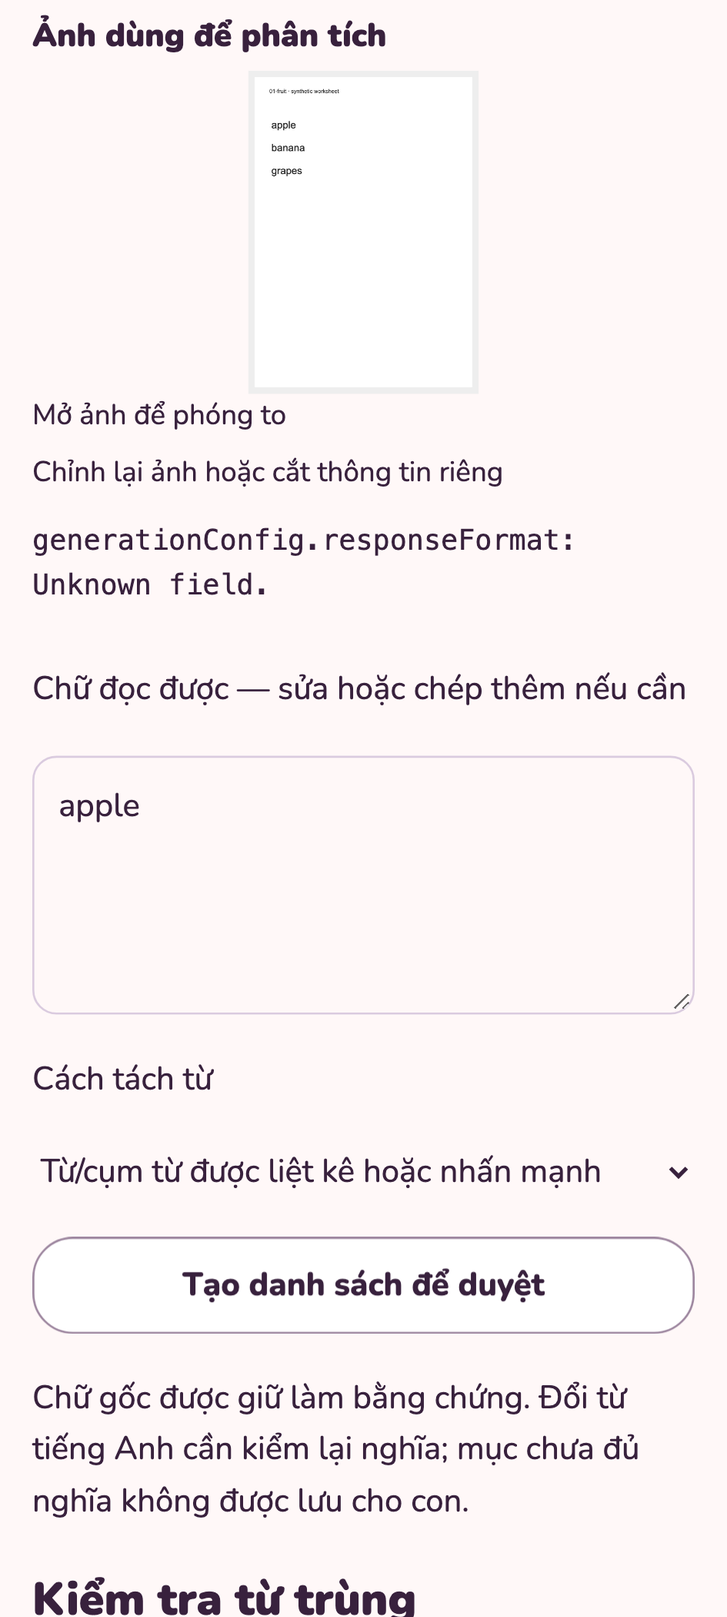
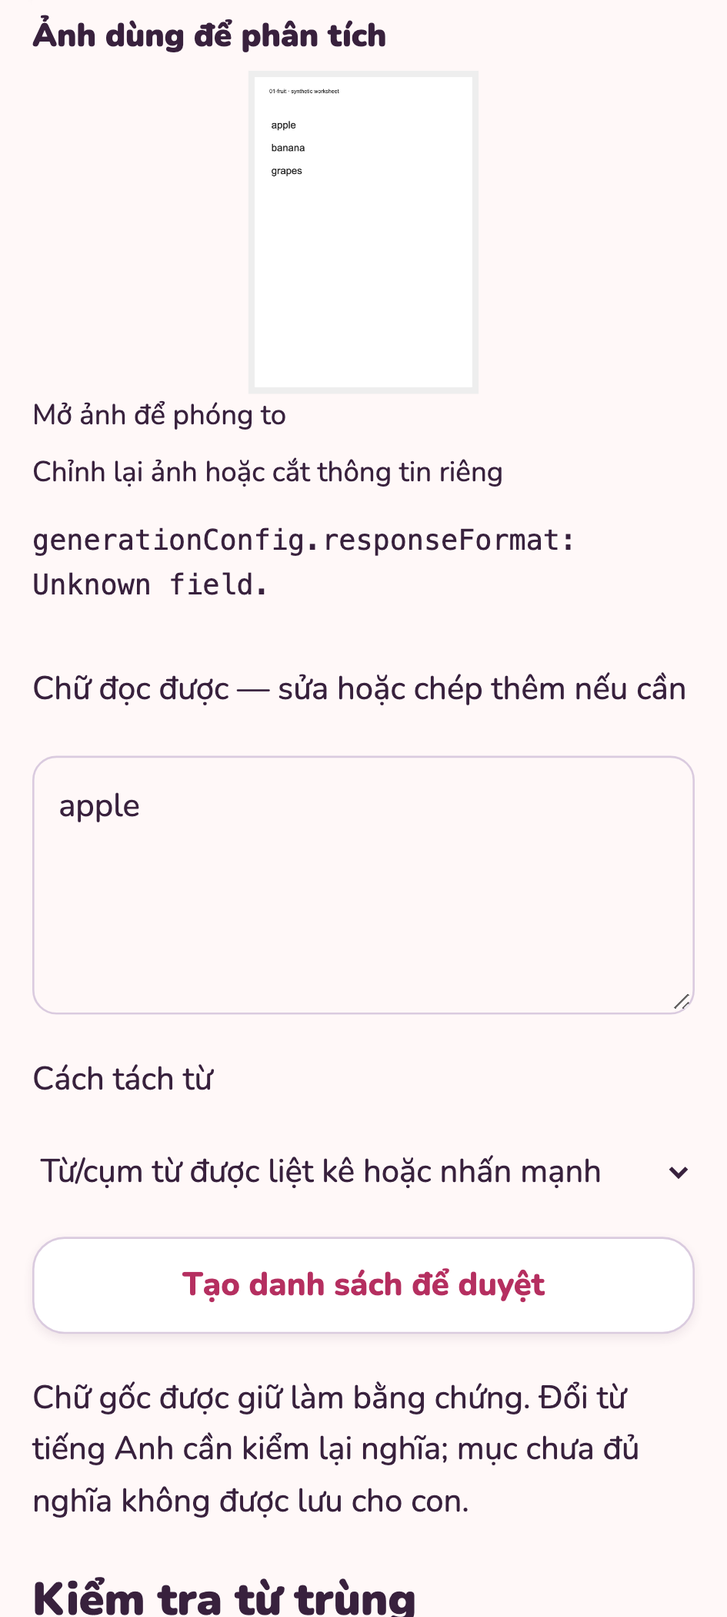
Wait for hydrated parent settings in browser checks

Changed region(s): [[0.2455, 0.7738, 0.7672, 0.8048], [0.9206, 0.8048, 0.9513, 0.8357], [0.0307, 0.7738, 0.0614, 0.8048]]

diff --git a/tests/e2e/parent-ai.spec.ts b/tests/e2e/parent-ai.spec.ts
@@ -2,14 +2,14 @@ import {test,expect,type Page} from '@playwright/test';
 import {readFile} from 'node:fs/promises';
 const key='AIza'+'test-parent-browser-canary-123456';
 const worksheet={text:'pear',warnings:[],words:[{literal:'pear',word:'pear',vi:'quả lê',en:'A sweet fruit.',pos:'noun',sense:'fruit',example:'I eat a pear.',exampleVi:'Con ăn một quả lê.'}]};
-async function advanced(page:Page){const detail=page.locator('#parent-ai .ai-advanced');if(!await detail.count())return;if(!await detail.evaluate(el=>el.hasAttribute('open')))await detail.locator('summary').click();}
+async function advanced(page:Page){const detail=page.locator('#parent-ai .ai-advanced');await expect(detail).toBeVisible();if(!await detail.evaluate(el=>el.hasAttribute('open')))await detail.locator('summary').click();await expect(page.getByLabel('Gemini API key',{exact:true})).toBeVisible();}
 async function setup(page:Page){await page.goto('/settings');await advanced(page);await page.getByLabel('Gemini API key',{exact:true}).fill(key);await page.getByLabel('Nhớ key trên máy này').check();await page.getByRole('button',{name:'Lưu cấu hình AI',exact:true}).click();await expect(page.locator('#parent-ai')).toContainText('Đã lưu cấu hình Gemini');}
 async function photo(page:Page){await page.goto('/capture');await page.getByLabel('Chọn ảnh từ máy',{exact:true}).setInputFiles({name:'worksheet.png',mimeType:'image/png',buffer:await readFile('docs/evaluations/t00/images/01-fruit.png')});await page.getByRole('button',{name:'Phân tích ảnh bằng AI',exact:true}).click();await page.getByLabel(/Tôi đồng ý gửi ảnh đã chỉnh/).check();await page.getByLabel(/Ảnh chỉ có nội dung học/).check();}
 test.beforeEach(async({page})=>{await page.route('**/api/dictionary?mode=suggest&**',r=>r.fulfill({json:{results:[]}}));await page.route('https://generativelanguage.googleapis.com/**',r=>r.fulfill({status:503,json:{error:'no-live-calls'}}));});
 test('BYOK calls the provider directly, persists review, excludes key from archive and deletes it',async({page})=>{
  const outbound:string[]=[];page.on('request',r=>{if(r.method()==='POST')outbound.push(r.url());});await setup(page);await page.reload();await advanced(page);await expect(page.getByLabel('Gemini API key',{exact:true})).toHaveValue(key);
  let calls=0;await page.route('https://generativelanguage.googleapis.com/v1beta/models/gemini-3.5-flash-lite:streamGenerateContent?alt=sse',async route=>{calls++;const request=route.request();expect(request.headers()['x-goog-api-key']).toBe(key);const body=request.postDataJSON();expect(body.contents[0].parts[1].inlineData.mimeType).toBe('image/jpeg');expect(body.generationConfig.responseMimeType).toBe('application/json');expect(body.generationConfig).not.toHaveProperty('responseJsonSchema');expect(body.contents[0].parts[0].text).toContain('without markdown fences');await route.fulfill({json:{candidates:[{finishReason:'STOP',content:{parts:[{text:JSON.stringify(worksheet)}]}}]}});});
- await photo(page);expect(calls).toBe(0);await page.getByRole('button',{name:'Phân tích ảnh bằng AI',exact:true}).click();await expect(page.locator('fieldset')).toHaveCount(1);await expect(page.locator('fieldset img')).toHaveAttribute('src','/illustrations/openmoji/1F350.svg');await expect(page.getByRole('status')).toContainText('Đã phân tích');expect(calls).toBe(1);expect(outbound).toEqual(['https://generativelanguage.googleapis.com/v1beta/models/gemini-3.5-flash-lite:streamGenerateContent?alt=sse']);await page.waitForTimeout(650);await page.reload();await advanced(page);await expect(page.locator('fieldset')).toHaveCount(1);await page.getByRole('checkbox',{name:'Tôi đã kiểm chữ, nghĩa và các từ được chọn trước khi cho con học.'}).check();await page.getByRole('button',{name:'Duyệt và lưu các từ đã chọn'}).click();await expect(page).toHaveURL(/\/library\?lesson=ocr-/);
+ await photo(page);expect(calls).toBe(0);await page.getByRole('button',{name:'Phân tích ảnh bằng AI',exact:true}).click();await expect(page.locator('fieldset')).toHaveCount(1);await expect(page.locator('fieldset img')).toHaveAttribute('src','/illustrations/openmoji/1F350.svg');await expect(page.getByRole('status')).toContainText('Đã phân tích');expect(calls).toBe(1);expect(outbound).toEqual(['https://generativelanguage.googleapis.com/v1beta/models/gemini-3.5-flash-lite:streamGenerateContent?alt=sse']);await page.waitForTimeout(650);await page.reload();await expect(page.locator('fieldset')).toHaveCount(1);await page.getByRole('checkbox',{name:'Tôi đã kiểm chữ, nghĩa và các từ được chọn trước khi cho con học.'}).check();await page.getByRole('button',{name:'Duyệt và lưu các từ đã chọn'}).click();await expect(page).toHaveURL(/\/library\?lesson=ocr-/);
  await page.goto('/settings');const download=page.waitForEvent('download');await page.getByRole('button',{name:'Xuất bài học và lịch sử',exact:true}).click();const path=await(await download).path();const archive=await readFile(path!,'utf8');expect(archive).not.toContain(key);expect(archive).toContain('ai_generated');await page.getByRole('button',{name:'Tắt AI',exact:true}).click();expect(await page.evaluate(()=>localStorage.getItem('wfk-parent-ai-v1'))).toBeNull();await expect(page.getByLabel('Gemini API key',{exact:true})).toHaveValue('');
 });
 test('provider authentication failure and cancellation retain the image and editable review',async({page})=>{
@@ -19,7 +19,7 @@ test('provider authentication failure and cancellation retain the image and edit
 test('typing a misspelling suggests a real headword then fills bilingual content and persists a licensed image',async({page})=>{
  await page.route('**/api/dictionary?mode=suggest&**',r=>r.fulfill({json:{results:[{word:'handsome',source:'Datamuse'}]}}));await page.route('**/api/dictionary?word=handsome',r=>r.fulfill({json:{results:[{word:'handsome',vi:'đẹp trai',definition:'of man: attractive',pos:'adjective',ipa:'/ˈhæn.səm/',examples:[{en:'a handsome man',vi:'người đẹp trai',source:'Wiktionary — CC BY-SA 4.0'}],source:'Wiktionary contributors — CC BY-SA 4.0'}]}}));
  await page.goto('/add');await page.getByRole('combobox').fill('handsom');await page.getByRole('option').filter({hasText:'handsome'}).getByRole('button').click();await expect(page.getByRole('combobox')).toHaveValue('handsome');await expect(page.getByLabel('Nghĩa tiếng Việt',{exact:true})).toHaveValue('đẹp trai');await expect(page.getByLabel('Nghĩa tiếng Anh',{exact:true})).toHaveValue('of man: attractive');await expect(page.getByLabel('Loại từ',{exact:true})).toHaveValue('adjective');await expect(page.getByLabel('Câu ví dụ tiếng Anh',{exact:true})).toHaveValue('a handsome man');await expect(page.locator('.word-preview > figure img')).toHaveAttribute('src','/illustrations/openmoji/1F468.svg');expect(await page.evaluate(()=>document.documentElement.scrollWidth<=innerWidth)).toBe(true);
- await page.getByRole('checkbox',{name:'Tôi đã kiểm tra nội dung và đồng ý cho con học'}).check();await page.getByRole('button',{name:'Duyệt và lưu từ',exact:true}).click();await expect(page).toHaveURL(/\/library\/words\//);await page.reload();await advanced(page);await expect(page.getByRole('heading',{name:'handsome',exact:true})).toBeVisible();await expect(page.locator('img[src="/illustrations/openmoji/1F468.svg"]')).toBeVisible();
+ await page.getByRole('checkbox',{name:'Tôi đã kiểm tra nội dung và đồng ý cho con học'}).check();await page.getByRole('button',{name:'Duyệt và lưu từ',exact:true}).click();await expect(page).toHaveURL(/\/library\/words\//);await page.reload();await expect(page.getByRole('heading',{name:'handsome',exact:true})).toBeVisible();await expect(page.locator('img[src="/illustrations/openmoji/1F468.svg"]')).toBeVisible();
 });
 
 test('Gemini model selection survives reload, custom IDs work and old OpenAI settings are not sent to Google',async({page})=>{
@@ -47,7 +47,7 @@ test('missing key explains the blocked action, inline session setup preserves ch
  await page.getByLabel('Nghĩa tiếng Việt',{exact:true}).fill('quả lê');await expect(source).toBeVisible();
  expect(await page.evaluate(()=>document.documentElement.scrollWidth<=innerWidth)).toBe(true);
  await expect(page.getByRole('button',{name:'Duyệt và lưu các từ đã chọn'})).toBeDisabled();await expect(page.locator('#save-help')).toContainText('tick xác nhận');
- await page.waitForTimeout(650);await page.reload();await advanced(page);await expect(source).toBeVisible();await expect(page.locator('fieldset')).toHaveCount(1);
+ await page.waitForTimeout(650);await page.reload();await expect(source).toBeVisible();await expect(page.locator('fieldset')).toHaveCount(1);
  await expect(analyse).toBeDisabled();await expect(page.locator('#analyse-help')).toContainText('xác nhận đồng ý gửi ảnh');
 });
 
@@ -74,7 +74,7 @@ test('Google rejection displays exact HTTP/status/field, redacts keys and retain
  const details=page.locator('.ai-error-details');await expect(details).toContainText('HTTP 400 · INVALID_ARGUMENT');await expect(details).toContainText('generationConfig.responseFormat');await expect(details).toContainText('Unknown field');await expect(details).not.toContainText(key);await expect(page.getByRole('region',{name:'Tiến độ phân tích ảnh'})).toHaveCount(0);await expect(page.getByRole('img',{name:'Ảnh đã chỉnh để đối chiếu với kết quả AI',exact:true})).toBeVisible();
  await page.getByLabel('Chữ đọc được — sửa hoặc chép thêm nếu cần').fill('apple');await page.getByRole('button',{name:'Tạo danh sách để duyệt'}).click();await expect(page.locator('fieldset')).toHaveCount(1);expect(await page.evaluate(()=>document.documentElement.scrollWidth<=innerWidth)).toBe(true);
  await details.scrollIntoViewIfNeeded();await page.screenshot({path:`docs/evaluations/founder-fixes/gemini-error-${testInfo.project.name}.png`});
- await page.waitForTimeout(650);await page.reload();await advanced(page);await expect(page.locator('fieldset')).toHaveCount(1);await expect(details).toHaveCount(0);
+ await page.waitForTimeout(650);await page.reload();await expect(page.locator('fieldset')).toHaveCount(1);await expect(details).toHaveCount(0);
 });
 
 
@@ -95,7 +95,7 @@ test('photo review identifies existing senses, removes selected duplicates and s
  await page.getByRole('checkbox',{name:'Tôi đã kiểm chữ, nghĩa và các từ được chọn trước khi cho con học.'}).check();await page.getByRole('button',{name:'Duyệt và lưu các từ đã chọn'}).click();await expect(page).toHaveURL(/\/library\?lesson=ocr-/);await expect(page.locator('.library-list li')).toHaveCount(1);
  await page.getByRole('button',{name:'Mẫu câu',exact:true}).click();await expect(page.locator('q').filter({hasText:'What is it?'})).toHaveText('What is it? It is a book.');const steps=page.locator('article').filter({has:page.locator('q').filter({hasText:'What is it?'})}).getByRole('region',{name:'Minh họa thứ tự câu'});await expect(steps).toContainText('Hỏi “Đó là gì?”');await steps.getByRole('button',{name:'Xem bước tiếp'}).click();await expect(steps).toContainText('Trả lời “Đó là…”');await steps.getByRole('button',{name:'Xem bước tiếp'}).click();await expect(steps).toContainText('It’s là viết ngắn');
  await page.emulateMedia({reducedMotion:'reduce'});expect(await steps.locator('.grammar-tokens span').first().evaluate(el=>getComputedStyle(el).animationName)).toBe('none');
- await page.getByRole('button',{name:'Ngữ pháp',exact:true}).click();await expect(page.getByRole('heading',{name:'Hỏi và gọi tên: What is it?',exact:true})).toBeVisible();await expect(page.getByText(/Lỗi dễ nhầm:.*What it is/)).toBeVisible();await page.reload();await advanced(page);await page.getByRole('button',{name:'Ngữ pháp',exact:true}).click();await expect(page.locator('q').filter({hasText:'What is it?'})).toHaveText('What is it? It is a book.');expect(await page.evaluate(()=>document.documentElement.scrollWidth<=innerWidth)).toBe(true);
+ await page.getByRole('button',{name:'Ngữ pháp',exact:true}).click();await expect(page.getByRole('heading',{name:'Hỏi và gọi tên: What is it?',exact:true})).toBeVisible();await expect(page.getByText(/Lỗi dễ nhầm:.*What it is/)).toBeVisible();await page.reload();await page.getByRole('button',{name:'Ngữ pháp',exact:true}).click();await expect(page.locator('q').filter({hasText:'What is it?'})).toHaveText('What is it? It is a book.');expect(await page.evaluate(()=>document.documentElement.scrollWidth<=innerWidth)).toBe(true);
  await page.goto('/library');await expect(page.locator('.library-list li')).toHaveCount(20);
 });
 
@@ -105,7 +105,7 @@ test('submitting a new photo automatically finds and saves licensed art, then im
  await setup(page);let downloads=0;const item={literal:'compass',word:'compass',vi:'la bàn',en:'An instrument showing direction.',pos:'noun',sense:'instrument',example:'This is a compass.',exampleVi:'Đây là một chiếc la bàn.'};
  await page.route('https://generativelanguage.googleapis.com/v1beta/models/gemini-3.5-flash-lite:streamGenerateContent?alt=sse',r=>r.fulfill({json:{candidates:[{finishReason:'STOP',content:{parts:[{text:JSON.stringify({text:'compass',warnings:[],words:[item]})}]}}]}}));
  await page.route('**/api/illustrations?**',r=>r.fulfill({json:{result:{art:'online-openmoji-1F9ED'}}}));await page.route('**/illustrations/online/1F9ED',async r=>{downloads++;await r.fulfill({contentType:'image/svg+xml',body:await readFile('public/illustrations/book.svg')});});
- await photo(page);await page.getByRole('button',{name:'Phân tích ảnh bằng AI',exact:true}).click();await expect(page.locator('fieldset img')).toHaveAttribute('src',/\/illustrations\/online\/1F9ED$/);expect(downloads).toBeGreaterThan(0);await page.getByRole('checkbox',{name:'Tôi đã kiểm chữ, nghĩa và các từ được chọn trước khi cho con học.'}).check();await page.getByRole('button',{name:'Duyệt và lưu các từ đã chọn'}).click();await expect(page).toHaveURL(/\/library\?lesson=ocr-/);await page.locator('.library-list a').click();await expect(page.getByRole('heading',{name:'compass',exact:true})).toBeVisible();await expect(page.locator('.word-detail-hero img')).toHaveAttribute('src',/1F9ED$/);const detail=page.url();await page.reload();await advanced(page);await expect(page.getByRole('heading',{name:'compass',exact:true})).toBeVisible();
+ await photo(page);await page.getByRole('button',{name:'Phân tích ảnh bằng AI',exact:true}).click();await expect(page.locator('fieldset img')).toHaveAttribute('src',/\/illustrations\/online\/1F9ED$/);expect(downloads).toBeGreaterThan(0);await page.getByRole('checkbox',{name:'Tôi đã kiểm chữ, nghĩa và các từ được chọn trước khi cho con học.'}).check();await page.getByRole('button',{name:'Duyệt và lưu các từ đã chọn'}).click();await expect(page).toHaveURL(/\/library\?lesson=ocr-/);await page.locator('.library-list a').click();await expect(page.getByRole('heading',{name:'compass',exact:true})).toBeVisible();await expect(page.locator('.word-detail-hero img')).toHaveAttribute('src',/1F9ED$/);const detail=page.url();await page.reload();await expect(page.getByRole('heading',{name:'compass',exact:true})).toBeVisible();
  await page.goto(detail+'/edit');await expect(page.getByLabel('Từ tiếng Anh',{exact:true})).toHaveValue('compass');await page.goto(detail+'/notes');await expect(page.getByRole('heading',{name:/Ghi chú/})).toBeVisible();
 });
 

diff --git a/tests/e2e/learning.spec.ts b/tests/e2e/learning.spec.ts
@@ -57,7 +57,7 @@ test('custom decks persist and select only the reviewed words',async({page})=>{
 });
 test('archive includes image bytes and restores into a separate empty guest scope',async({page,context})=>{
  await page.goto('/capture');await page.getByLabel('Chọn ảnh từ máy',{exact:true}).setInputFiles({name:'worksheet.png',mimeType:'image/png',buffer:await readFile('docs/evaluations/t00/images/01-fruit.png')});await expect(page).toHaveURL(/\/edit$/);await page.goto('/settings');const event=page.waitForEvent('download');await page.getByRole('button',{name:'Xuất bài học và lịch sử',exact:true}).click();const path=await(await event).path();const buffer=await readFile(path!);const data=JSON.parse(buffer.toString());expect(data.records.captureDrafts).toHaveLength(1);expect(data.records.localMedia).toHaveLength(2);expect(data.records.localMedia.every((m:{base64:string})=>m.base64.startsWith('/9j/'))).toBe(true);
- const guest=await context.newPage();await guest.goto('http://127.0.0.1:4322/settings');const input=guest.locator('input[type=file]').nth(1);await input.setInputFiles({name:'archive.json',mimeType:'application/json',buffer});await guest.getByRole('button',{name:'Khôi phục vào thư viện trống',exact:true}).click();await expect(guest.getByText('Đã khôi phục. Kiểm và duyệt các từ ở trên trước khi con học.',{exact:true})).toBeVisible();await guest.goto('http://127.0.0.1:4322/capture');await expect(guest.locator('.capture-drafts a')).toHaveCount(1);await guest.goto('http://127.0.0.1:4322/library');await expect(guest.getByText('Thư viện đang trống',{exact:true})).toBeVisible();await guest.close();
+ const guest=await context.newPage();await guest.goto('http://127.0.0.1:4322/settings');await expect(guest.getByRole('button',{name:'Xuất bài học và lịch sử',exact:true})).toBeEnabled();const input=guest.locator('input[type=file]').nth(1);await input.setInputFiles({name:'archive.json',mimeType:'application/json',buffer});await guest.getByRole('button',{name:'Khôi phục vào thư viện trống',exact:true}).click();await expect(guest.getByText('Đã khôi phục. Kiểm và duyệt các từ ở trên trước khi con học.',{exact:true})).toBeVisible();await guest.goto('http://127.0.0.1:4322/capture');await expect(guest.locator('.capture-drafts a')).toHaveCount(1);await guest.goto('http://127.0.0.1:4322/library');await expect(guest.getByText('Thư viện đang trống',{exact:true})).toBeVisible();await guest.close();
 });
 test('local sample and guest libraries switch without mixing or deleting words',async({page})=>{
  await page.goto('/settings');await page.getByRole('button',{name:'Dùng thư viện riêng của con',exact:true}).click();await expect(page.getByRole('button',{name:'Mở bài mẫu để thử',exact:true})).toBeVisible();await page.goto('/library');await expect(page.getByText('Thư viện đang trống',{exact:true})).toBeVisible();await page.goto('/add');await page.getByRole('combobox').fill('nu');await page.getByRole('option').filter({hasText:'nut'}).getByRole('button').click();await page.getByRole('checkbox',{name:'Tôi đã kiểm tra nội dung và đồng ý cho con học'}).check();await page.getByRole('button',{name:'Duyệt và lưu từ',exact:true}).click();await expect(page).toHaveURL(/\/library\/words\//);await page.goto('/settings');await page.getByRole('button',{name:'Mở bài mẫu để thử',exact:true}).click();await expect(page.getByRole('button',{name:'Dùng thư viện riêng của con',exact:true})).toBeVisible();await page.goto('/library');await expect(page.locator('.library-list li')).toHaveCount(20);await page.getByRole('searchbox').fill('nut');await expect(page.getByText('Không có từ phù hợp',{exact:true})).toBeVisible();await page.goto('/settings');await page.getByRole('button',{name:'Dùng thư viện riêng của con',exact:true}).click();await expect(page.getByRole('button',{name:'Mở bài mẫu để thử',exact:true})).toBeVisible();await page.reload();await page.goto('/library');await expect(page.locator('.library-list li')).toHaveCount(1);await expect(page.locator('.library-list')).toContainText('nut');

diff --git a/docs/evaluations/button-hierarchy.md b/docs/evaluations/button-hierarchy.md
@@ -6,4 +6,4 @@ Shared berry primary with soft offset depth/top highlight, lavender secondary, b
 
 Validation: pnpm check PASS137tests/18files/lint/typecheck/build; final lint PASS after adding the browser gate/hierarchy case; full pnpm test:e2e PASS163/163 (2.4minutes). New desktop/mobile case checks primary Add/save versus quiet Filter and confirms both illustrated entries still open ParentGate before navigating to the intended route. Existing shared48px/focus, save/reload/concurrency/AI/cloud fixture cases pass. First batched responsive inspection completed56views/28route-states at360/1280 with no overflow/page JS errors; contact sheets and raw target/editor/game screenshots inspected, no UI repair required. Screenshot helper was corrected to read a modal heading when a dialog obscures the page heading; no application change. Native Chrome360px Library button hierarchy verified and viewport reset. No live provider, upload or personal-data mutation this turn. Docs validator PASS261local links at source checkpoint. Human preference and physical-phone acceptance remain separate.
 
-Representative synthetic screenshots: [Library mobile](founder-fixes/button-v1/library-360.png), [desktop](founder-fixes/button-v1/library-1280.png), [Today with draft mobile](founder-fixes/button-v1/today-draft-360.png), [desktop](founder-fixes/button-v1/today-draft-1280.png), [editor save](founder-fixes/button-v1/edit-360.png), [parent gate](founder-fixes/button-v1/parent-gate-360.png), [report](founder-fixes/button-v1/responsive-report.json). Hosted deployment and remote CI pending until actual results are read.
+Representative synthetic screenshots: [Library mobile](founder-fixes/button-v1/library-360.png), [desktop](founder-fixes/button-v1/library-1280.png), [Today with draft mobile](founder-fixes/button-v1/today-draft-360.png), [desktop](founder-fixes/button-v1/today-draft-1280.png), [editor save](founder-fixes/button-v1/edit-360.png), [parent gate](founder-fixes/button-v1/parent-gate-360.png), [report](founder-fixes/button-v1/responsive-report.json). Source7f5a750 nativeGit production READY dpl_9QA1ahB3neZMjktmGADZvuL729Xx, stable words-for-kids.vercel.app. Live360px Library and Today manual/draft entries verified; screenshot proof retained outside repo, viewport reset, existing13words/draft unchanged. Temporary4330 preview stopped. RemoteCI38074060768 check/SQL PASS; browser result1failed/9flaky/153passed. Failure trace shows the advanced-settings test helper returned while the settings section was still absent during hydration; its subsequent fill waited on the collapsed field. Helper now waits for the visible disclosure/input instead of a one-shot count, and unrelated calls on extract/detail/library reload removed. Archive fixture also waits for enabled export (repository ready) before programmatically setting hidden import input. No timeout/ assertion weakening or UI change. Targeted24parent AI desktop/mobile PASS; lint/types PASS. Targeted archive desktop/mobile2/2PASS (9.4s); follow-up remote CI pending until actually read.

diff --git a/docs/ai/STATE.md b/docs/ai/STATE.md
@@ -2,7 +2,7 @@
 
 ## Current steering — Project button hierarchy, ADR043 (11/10/2026)
 
-Founder requests expressive buttons throughout the project, berry submit/save CTAs and recognizable whole-feature entry points. Shared Button now has berry primary/soft secondary/outline, quiet ghost/link, distinct destructive and original Google, plus feature/segment. Library Add/+ versus Filter hierarchy, illustrated preparation entry, content segments; Today illustrated typed-word entry and draft resume. Parent gates/routes/data remain intact. Check137/lint/types/build, full163browser and56responsive views PASS; no overflow/page errors. [Evidence](../evaluations/button-hierarchy.md) records skills/checks/screens. Pre-existing env/key/data files excluded. Next: verify nativeGit hosted deployment and remote CI, then founder preference/physical-phone acceptance; human gates remain open.
+Founder requests expressive buttons throughout the project, berry submit/save CTAs and recognizable whole-feature entry points. Shared Button now has berry primary/soft secondary/outline, quiet ghost/link, distinct destructive and original Google, plus feature/segment. Library Add/+ versus Filter hierarchy, illustrated preparation entry, content segments; Today illustrated typed-word entry and draft resume. Parent gates/routes/data remain intact. Check137/lint/types/build, full163browser and56responsive views PASS; no overflow/page errors. [Evidence](../evaluations/button-hierarchy.md) records skills/checks/screens. Pre-existing env/key/data files excluded. Source7f5a750 production READY dpl_9QA1ahB3neZMjktmGADZvuL729Xx; live360px Library/Today verified. CI38074060768 hit an existing disclosure-hydration helper race (1failed/9flaky); helper now awaits visible disclosure and archive fixture awaits repository ready, targeted24AI/2archive/lint/types PASS. Next: verify follow-up remote CI, then founder preference/physical-phone acceptance; human gates remain open.
 
 ## Current steering — Child play and parent simplicity, ADR042 (11/10/2026)
 

diff --git a/docs/ai/CHANGELOG.md b/docs/ai/CHANGELOG.md
@@ -325,3 +325,5 @@ ADR042 source583bb79 production READY, hosted illustrated hub verified. RemoteCI
 ## 11/10/2026 — Shared buttons and feature entries (ADR043)
 
 Berry solid primary/soft offset depth/press/focus, lavender secondary/berry outline, quiet ghost/link and destructive confirmation; Google kept. Feature and segment variants, Add/+ versus Filter, illustrated parent preparation/manual entries, compact draft resume and relevant save/check icons. All existing gated routes and data semantics retained. Check137/lint/types/build, full163browser and56responsive views PASS; screenshot modal-heading helper corrected, no UI defect batch needed. No new dependency/preset/plugin/art or user-data/provider calls; env/key/eng.traineddata preserved. [Evidence](../evaluations/button-hierarchy.md).
+
+ADR043 source7f5a750 production READY and live360px Library/Today verified,13words/draft preserved. CI38074060768 check/SQL PASS but browser1failed/9flaky from existing early-return disclosure hydration helper; wait visible instead and remove irrelevant advanced calls after non-settings reload. Archive fixture waits ready export before hidden input event. Targeted24parent-AI/lint/types PASS; no timeout or app behavior changes. Follow-up CI pending.
